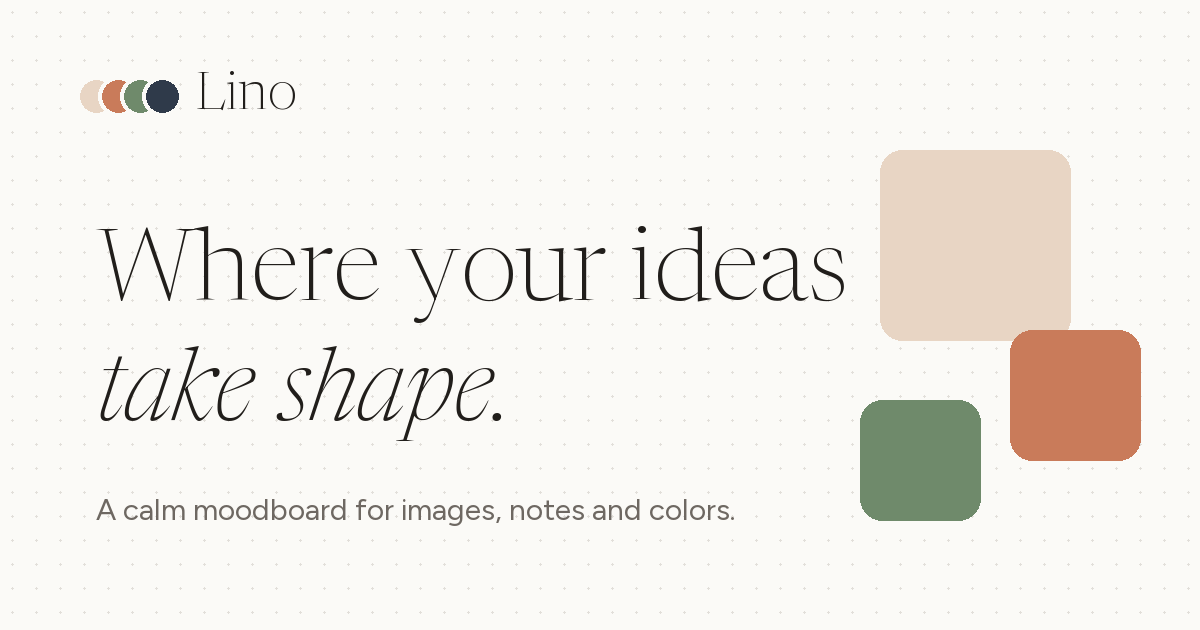
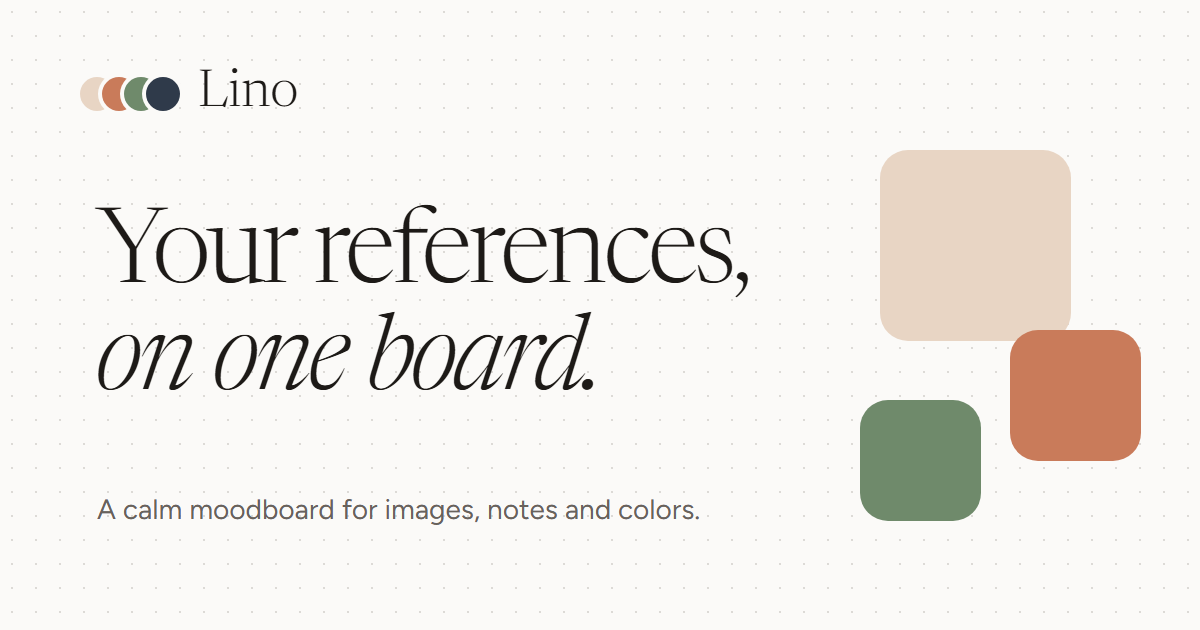
feat(web): new landing slogan, italics only in hero title
Replace "Where your ideas take shape" with "Your references, on one
board" in the hero, page title, og tags and og.png. Drop the italic
accent from section headings.

Changed region(s): [[0.0617, 0.3016, 0.7092, 0.6937], [0.0925, 0.7841, 0.6167, 0.8444], [0.0617, 0.1206, 0.2467, 0.181]]

diff --git a/apps/web/src/landing.tsx b/apps/web/src/landing.tsx
@@ -310,11 +310,11 @@ function Landing() {
         <main className="relative flex flex-1 flex-col justify-center px-4 pt-8 pb-16 sm:px-8">
           <div className="relative z-10 mx-auto max-w-4xl text-center">
             <h1 className="font-heading text-[clamp(3rem,6vw,5.75rem)] leading-[0.92] tracking-[-0.04em]">
-              Where your ideas <br className="hidden sm:block" />
-              <em>take shape</em>.
+              Your references, <br className="hidden sm:block" />
+              <em>on one board</em>.
             </h1>
             <p className="mx-auto mt-8 max-w-md text-base leading-8 text-muted-foreground">
-              Pin <Tag>images</Tag>, <Tag>notes</Tag> and <Tag>colors</Tag> on one board, and keep the colors you like in a palette.
+              Pin <Tag>images</Tag>, <Tag>notes</Tag> and <Tag>colors</Tag>, and keep the colors you like in a palette.
             </p>
             <div className="mt-10 flex flex-col items-center gap-4">
               <a
@@ -340,7 +340,7 @@ function Landing() {
         <div className={`${container} text-center`}>
           <Eyebrow>The board</Eyebrow>
           <h2 className={h2}>
-            Collect it all. <em>Keep the colors.</em>
+            Collect it all. Keep the colors.
           </h2>
           <p className={`${lead} mx-auto`}>
             Drop in images, jot down notes and add swatches. Every color you add lands in the palette, ready to rename and pin.
@@ -354,7 +354,7 @@ function Landing() {
           <div>
             <Eyebrow>Tokens</Eyebrow>
             <h2 className={h2}>
-              That board, <em>as tokens</em>.
+              That board, as tokens.
             </h2>
             <p className={lead}>
               Rename and pin the colors you keep, and Lino turns them into tokens you can paste into your project. Fonts will
@@ -370,7 +370,7 @@ function Landing() {
         <div className={container}>
           <Eyebrow dark>Private</Eyebrow>
           <h2 className={h2}>
-            Your boards <em>stay with you</em>.
+            Your boards stay with you.
           </h2>
           <p className={`${lead} text-background/60`}>
             Everything you pin is saved in your browser, on this device. There is no account to make, and nothing you add is
@@ -392,7 +392,7 @@ function Landing() {
           <div>
             <Eyebrow>Questions</Eyebrow>
             <h2 className={h2}>
-              Good to <em>know</em>.
+              Good to know.
             </h2>
           </div>
           <div className="border-t border-border">
@@ -418,7 +418,7 @@ function Landing() {
       <section className={`${section} pt-0 sm:pt-0`}>
         <div className={`${container} rounded-3xl border border-border/60 bg-card px-6 py-24 text-center shadow-soft`}>
           <h2 className="font-heading text-[clamp(2.75rem,6vw,4.5rem)] leading-[0.95]">
-            Start your <em>first board</em>.
+            Start your first board.
           </h2>
           <p className={`${lead} mx-auto`}>It opens right away, with nothing to sign up for.</p>
           <a href="/board/" className={`${darkButton} mt-10 px-6 py-3 text-sm`}>

diff --git a/apps/web/index.html b/apps/web/index.html
@@ -4,17 +4,17 @@
     <meta charset="UTF-8" />
     <meta name="viewport" content="width=device-width, initial-scale=1.0" />
     <meta name="description" content="Lino is a calm moodboard for images, notes and colors. Keep the colors you like in a palette. No account needed." />
-    <title>Lino · where your ideas take shape</title>
+    <title>Lino · your references, on one board</title>
     <link rel="icon" href="/favicon.svg" type="image/svg+xml" />
     <meta property="og:type" content="website" />
     <meta property="og:site_name" content="Lino" />
-    <meta property="og:title" content="Lino · where your ideas take shape" />
+    <meta property="og:title" content="Lino · your references, on one board" />
     <meta property="og:description" content="A calm moodboard for images, notes and colors. No account needed." />
     <!-- ponytail: relative path; make it absolute (https://<domain>/og.png) once there is a domain, Facebook and X require it -->
     <meta property="og:image" content="/og.png" />
     <meta property="og:image:width" content="1200" />
     <meta property="og:image:height" content="630" />
-    <meta property="og:image:alt" content="Lino: where your ideas take shape" />
+    <meta property="og:image:alt" content="Lino: your references, on one board" />
     <meta name="twitter:card" content="summary_large_image" />
   </head>
   <body>
